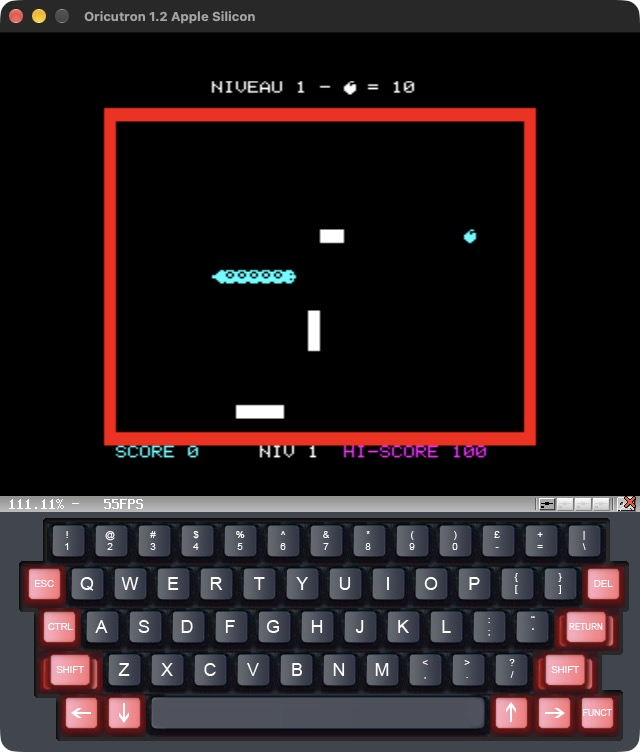
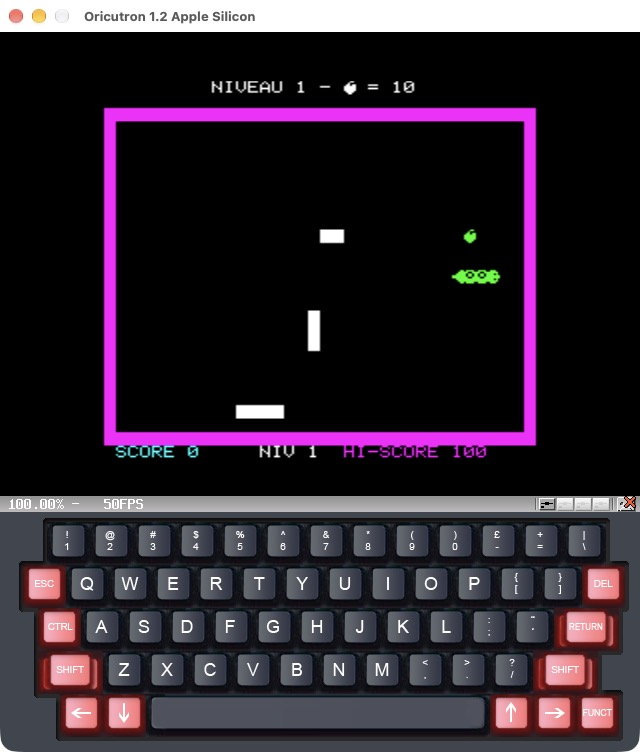
Serpent : serpent vert comme sur l'image titre, bord magenta
Encre du terrain verte (attribut 2) au lieu de cyan : serpent et pomme
verts ; le bord, en vidéo inverse, prend la couleur complémentaire,
magenta. Toujours aucune case attribut dans le terrain (collisions
exactes). Capture, LISEZ-MOI et serpent-commente.txt à jour.

diff --git a/programmes-oric/LISEZ-MOI.md b/programmes-oric/LISEZ-MOI.md
@@ -19,7 +19,7 @@ Les `.tap` sont aussi copiés dans `~/Library/Application Support/Oricutron/tape
 | Programme | Fichiers | Langage | Ce qu'il fait |
 |---|---|---|---|
 | Démo graphique | `demo-hires/` : `demo-hires.bas` → `demo-hires.tap` | BASIC | Mode HIRES : bandes de couleur, cercles, rayons, texte, son (ZAP, PING). Une touche revient au mode texte. |
-| Serpent | `serpent/` : `serpent.bas` → `serpent.tap` | BASIC | Petit jeu : flèches pour diriger, mange les `@`, perdu si on touche le bord, un mur ou sa queue. En couleurs : bord rouge plein, serpent cyan, pomme cyan (le `@` redessiné), murs en pavés blancs, SCORE cyan, HI-SCORE magenta. Espace pour jouer. **5 niveaux** (voir plus bas). **Hall of Fame** des 10 meilleurs scores, HI-SCORE affiché pendant la partie. |
+| Serpent | `serpent/` : `serpent.bas` → `serpent.tap` | BASIC | Petit jeu : flèches pour diriger, mange les `@`, perdu si on touche le bord, un mur ou sa queue. En couleurs : bord magenta plein, serpent vert, pomme verte (le `@` redessiné), murs en pavés blancs, SCORE cyan, HI-SCORE magenta. Espace pour jouer. **5 niveaux** (voir plus bas). **Hall of Fame** des 10 meilleurs scores, HI-SCORE affiché pendant la partie. |
 | Écran titre | `titre/` : `titre.s` → `titre.tap` | Assembleur 6502 | Titre double hauteur, arc-en-ciel animé, texte défilant. Une touche rend l'écran BASIC d'avant. |
 
 Le serpent existe aussi en **disquette** `serpent/serpent.dsk` (lecteur Microdisc), qui
@@ -63,9 +63,10 @@ Les couleurs du terrain n'utilisent **aucune case couleur** (attribut série) :
 une telle case s'affiche comme une case vide, et le serpent mourait devant le
 bord gauche ou mangeait le `@` sans le toucher (corrigé le 2026-11-22). Le jeu
 se sert de la vidéo inverse, qui affiche la couleur complémentaire de l'encre :
-encre cyan pour le serpent, bloc plein en inverse = rouge pour le bord, espace
+encre verte pour le serpent (comme sur l'image titre, depuis le 2026-11-23),
+bloc plein en inverse = magenta pour le bord (la couleur complémentaire du vert), espace
 en inverse = blanc pour les murs. La nourriture est le caractère `@` redessiné
-en petite pomme, cyan sur noir. Le serpent est dessiné lui aussi (caractères
+en petite pomme, verte sur noir. Le serpent est dessiné lui aussi (caractères
 redéfinis) : des anneaux à écailles, une tête avec deux yeux et un museau,
 tournée dans le sens de la marche, et une queue en pointe sur le dernier
 anneau.
